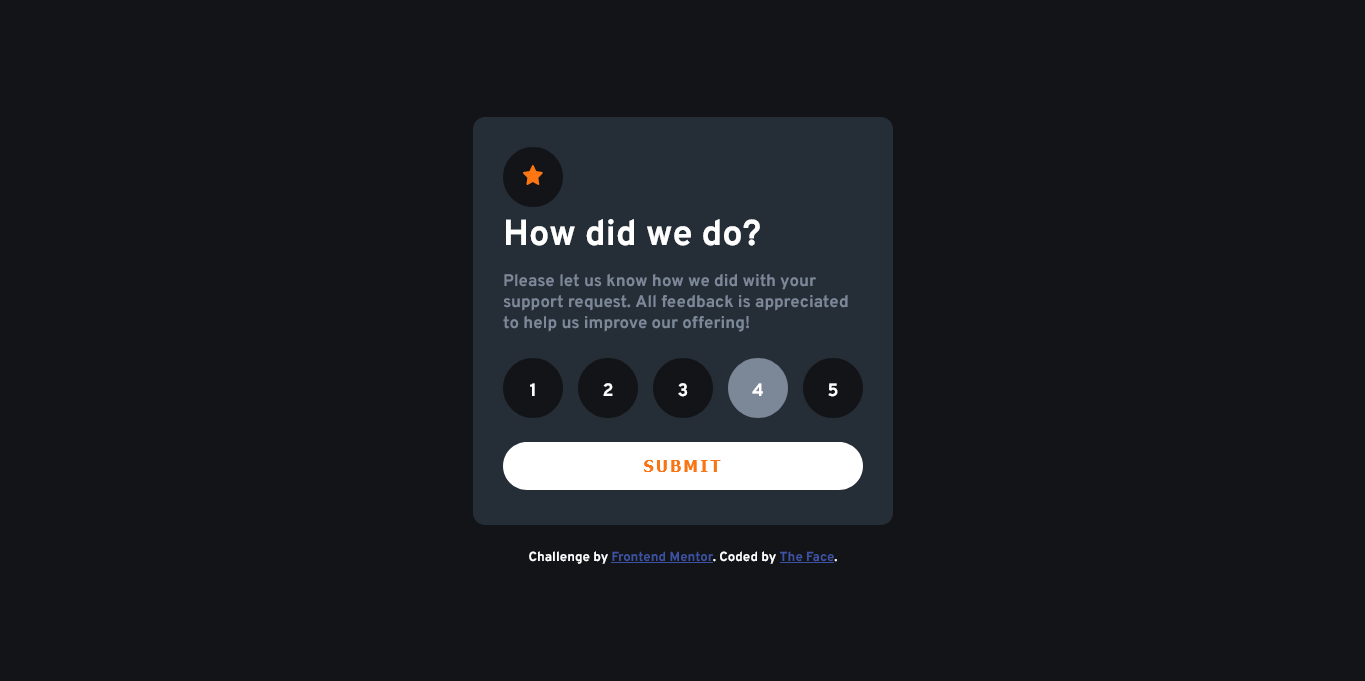
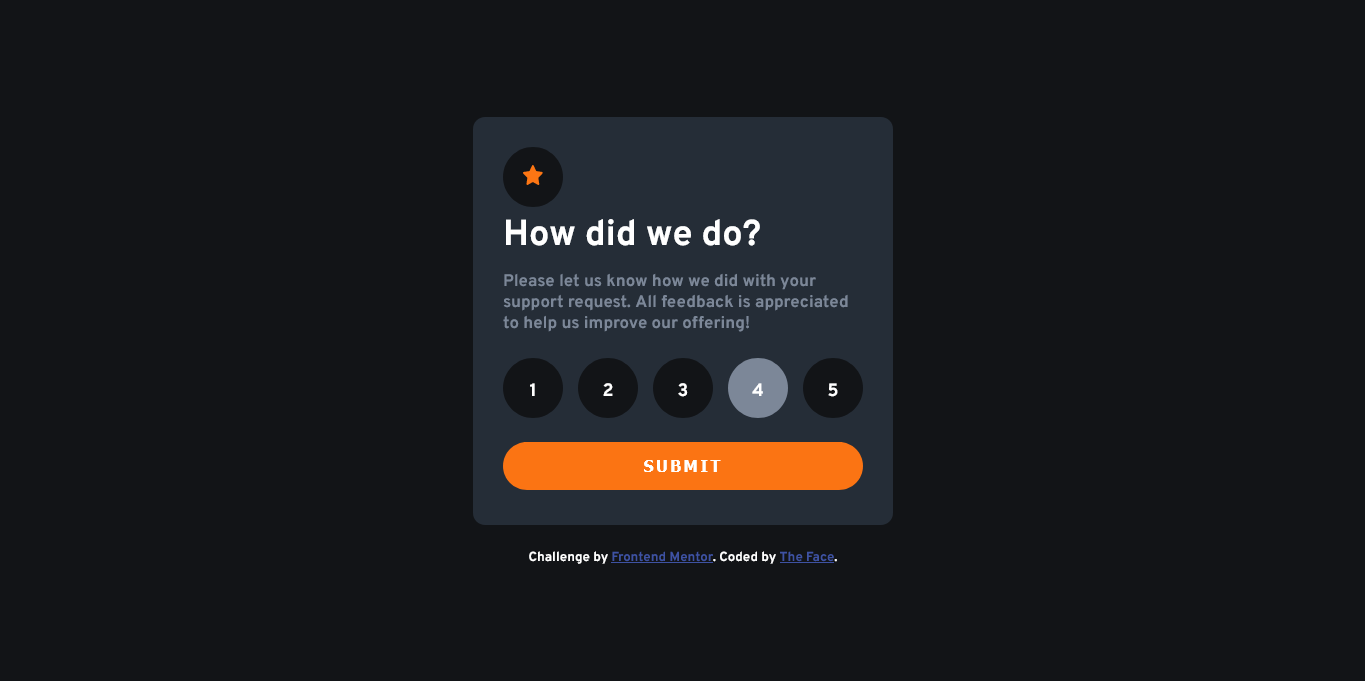
Update

Changed region(s): [[0.3692, 0.6476, 0.6462, 0.7401]]

diff --git a/index.html b/index.html
@@ -14,7 +14,6 @@
 
     <title>Interactive rating component by The Face</title>
 
-    <!-- Feel free to remove these styles or customise in your own stylesheet 👍 -->
     <style>
       @import url("https://fonts.googleapis.com/css2?family=Overpass:wght@700&display=swap");
 
@@ -99,8 +98,8 @@
         width: 100%;
         height: 40px;
         border-radius: 30px;
-        background: hsl(0, 0%, 100%);
-        color: hsl(25, 97%, 53%);
+        color: hsl(0, 0%, 100%);
+        background: hsl(25, 97%, 53%);
         letter-spacing: 2px;
         font-weight: 700;
         border: none;
@@ -111,8 +110,8 @@
       }
 
       input.submit:hover {
-        color: hsl(0, 0%, 100%);
-        background: hsl(25, 97%, 53%);
+        background: hsl(0, 0%, 100%);
+        color: hsl(25, 97%, 53%);
       }
       .attribution a {
         color: hsl(228, 45%, 44%);
@@ -145,13 +144,15 @@
   <body>
     <!-- Rating state start -->
     <div class="rate-box" role="main">
-      <button class="score"><img src="./images/icon-star.svg" alt="" /></button>
+      <button class="score" value="">
+        <img src="./images/icon-star.svg" alt="" />
+      </button>
       <h1>How did we do?</h1>
       <p>
         Please let us know how we did with your support request. All feedback is
         appreciated to help us improve our offering!
       </p>
-      <form role="form">
+      <form>
         <div class="buttons">
           <input
             type="radio"

diff --git a/README.md b/README.md
@@ -9,7 +9,7 @@ This is a solution to the [Interactive rating component challenge on Frontend Me
 
 ### Links
 
-- Solution URL: [Add solution URL here](https://github.com/iamtheface/Ratings)
+- Solution URL: [Add solution URL here](https://www.frontendmentor.io/challenges/interactive-rating-component-koxpeBUmI/hub/interactive-rating-component-3W4KQM1yzh)
 - Live Site URL: [Add live site URL here](https://thefacerating.netlify.app)
 
 ## My process
@@ -18,9 +18,6 @@ This is a solution to the [Interactive rating component challenge on Frontend Me
 
 - Semantic HTML5 markup
 - CSS custom properties
-- Flexbox
-- CSS Grid
-- Mobile-first workflow
 - JavaScript
 
 ## Author
